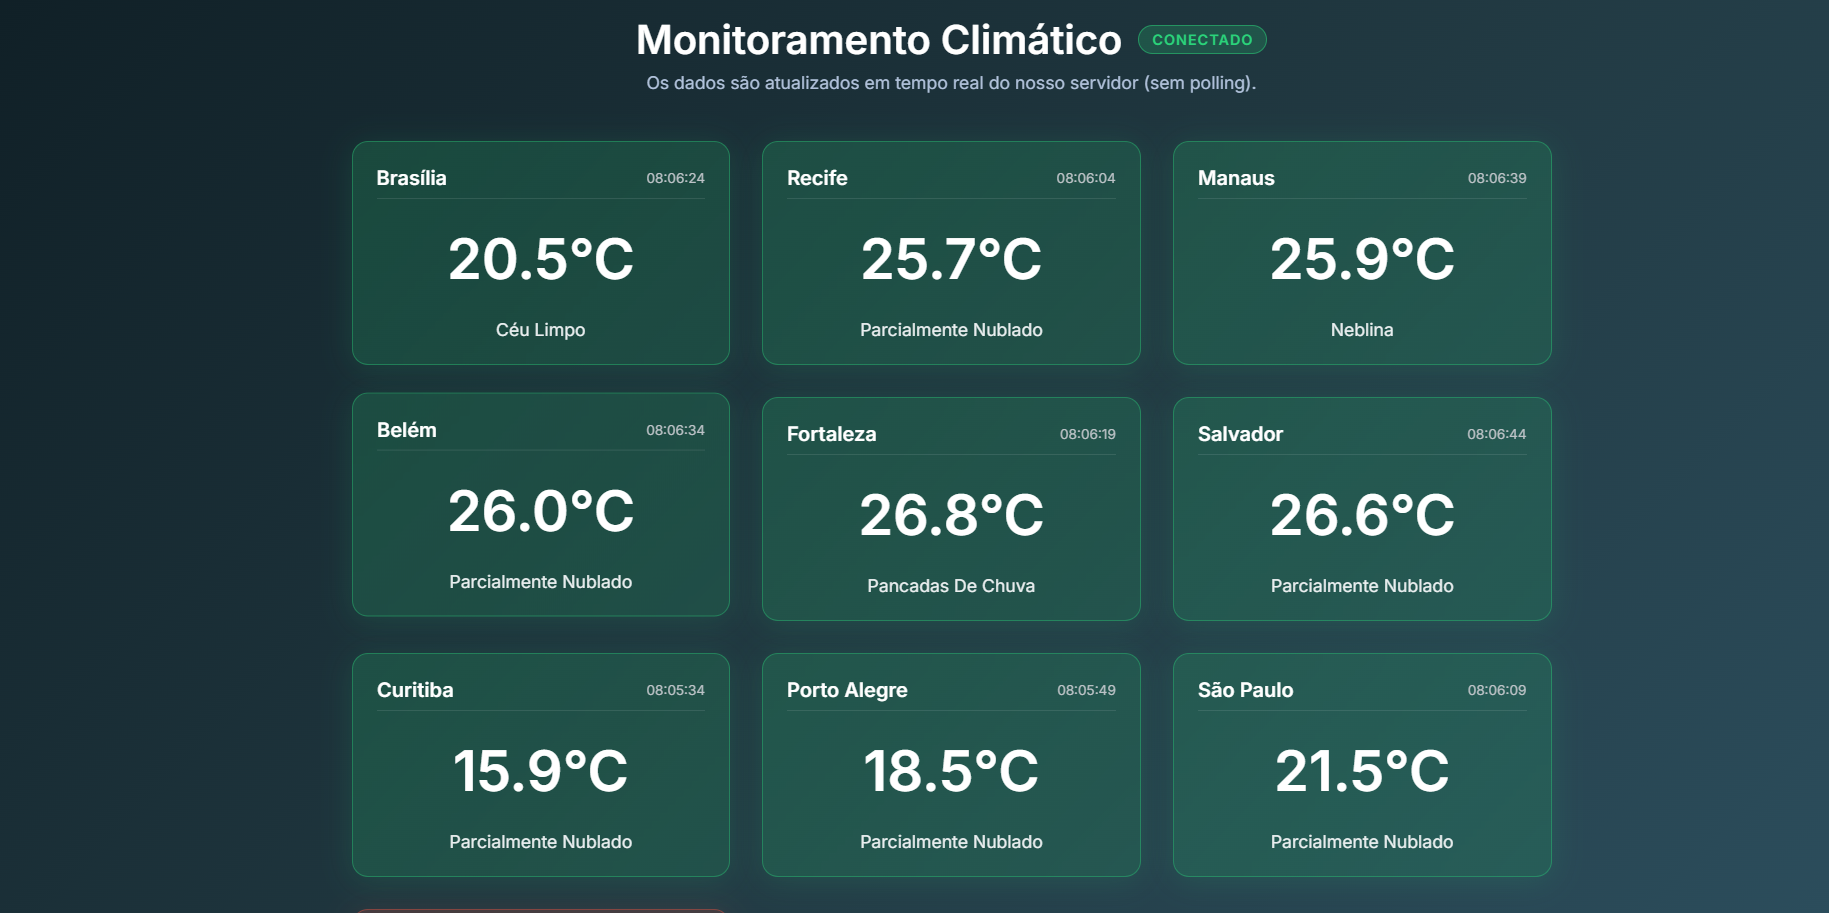
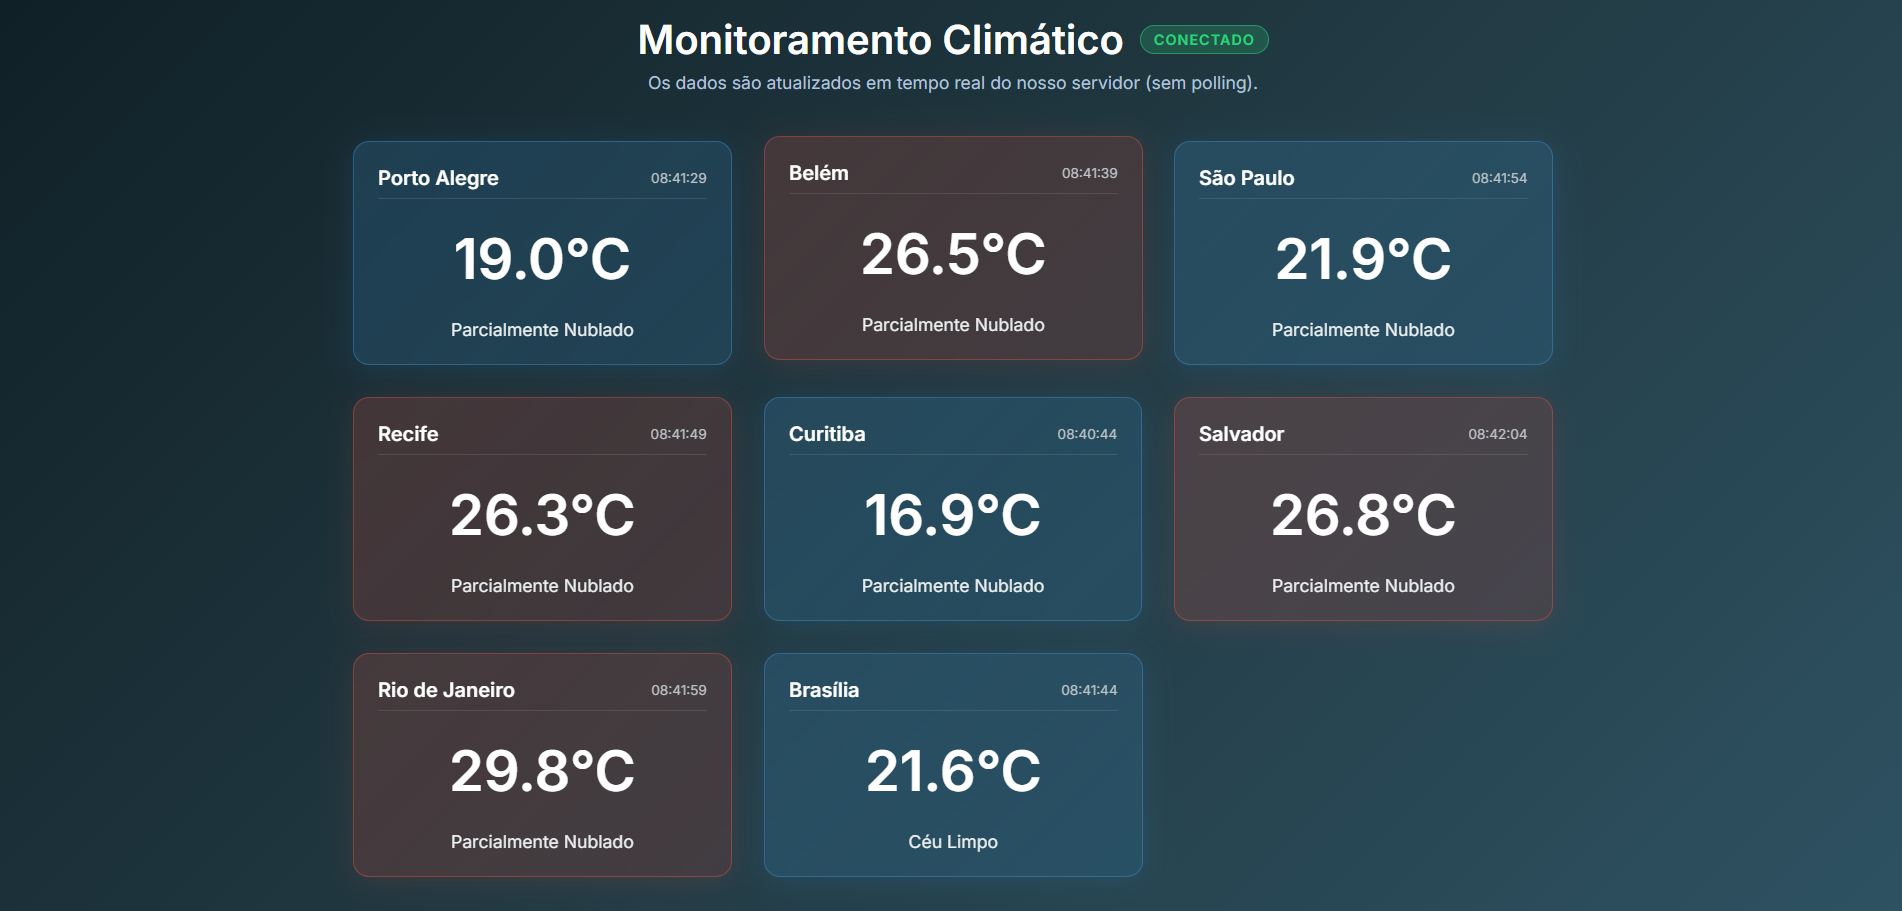
melhorando interface

diff --git a/src/main/resources/static/app.js b/src/main/resources/static/app.js
@@ -43,12 +43,12 @@ function setConnected(connected) {
 function updateDashboard(data) {
     const cityId = data.cidade.replace(/\s+/g, '-').toLowerCase();
     
-    // Define the theme based on temperature
-    let themeClass = 'mild';
-    if (data.temperatura < 15) {
-        themeClass = 'cold';
-    } else if (data.temperatura >= 28) {
-        themeClass = 'hot';
+    // Define o tema baseado na temperatura (Removendo o verde e dividindo entre frio e calor)
+    let themeClass;
+    if (data.temperatura <= 25) {
+        themeClass = 'cold'; // Azul
+    } else {
+        themeClass = 'hot'; // Vermelho
     }
 
     // Check if card already exists

diff --git a/target/classes/static/app.js b/target/classes/static/app.js
@@ -43,12 +43,12 @@ function setConnected(connected) {
 function updateDashboard(data) {
     const cityId = data.cidade.replace(/\s+/g, '-').toLowerCase();
     
-    // Define the theme based on temperature
-    let themeClass = 'mild';
-    if (data.temperatura < 15) {
-        themeClass = 'cold';
-    } else if (data.temperatura >= 28) {
-        themeClass = 'hot';
+    // Define o tema baseado na temperatura (Removendo o verde e dividindo entre frio e calor)
+    let themeClass;
+    if (data.temperatura <= 25) {
+        themeClass = 'cold'; // Azul
+    } else {
+        themeClass = 'hot'; // Vermelho
     }
 
     // Check if card already exists
